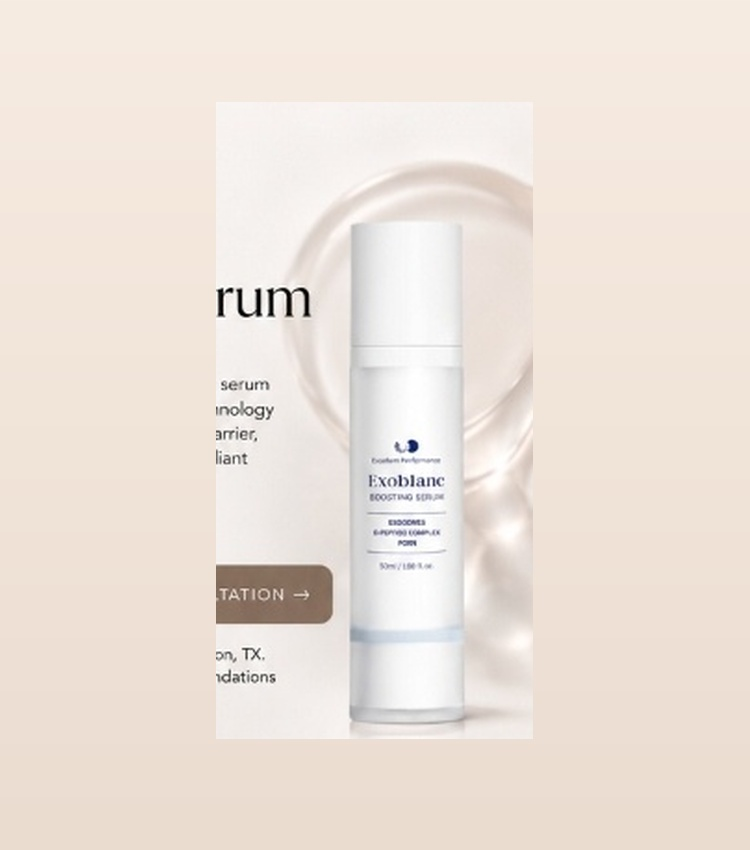
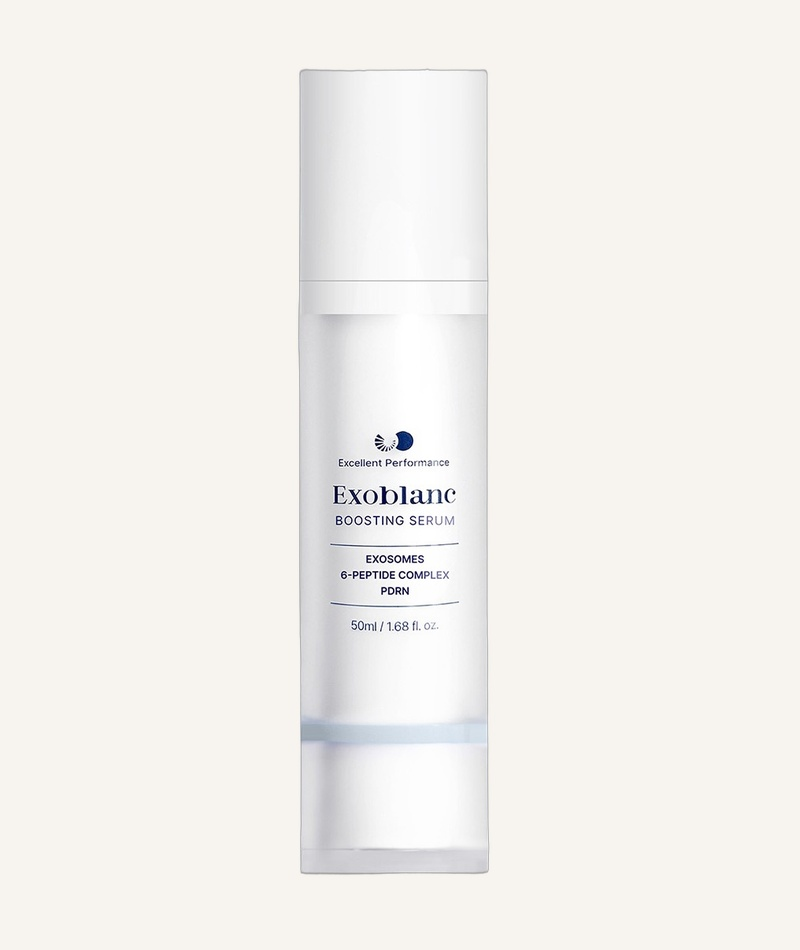
feat: replace hero image with authentic high-res Exoblanc studio product photography

diff --git a/exoblanc-mobile-app/index.html b/exoblanc-mobile-app/index.html
@@ -414,13 +414,31 @@
           <!-- Product Image Views (Centered & Prominent) -->
           <div class="relative flex-1 w-full flex items-center justify-center p-2">
             
-            <!-- View 1: Bottle Front & Center (DEFAULT) -->
+            <!-- View 1: Real Bottle Front & Center (DEFAULT) -->
             <div id="productSlide-bottle" class="product-slide absolute inset-0 flex items-center justify-center transition-opacity duration-400 opacity-100 p-4">
-              <div class="absolute w-60 h-60 rounded-full bg-white/70 blur-2xl pointer-events-none"></div>
-              <img src="assets/product-front-center.jpg" alt="Exoblanc Boosting Serum Bottle Front and Center" class="h-[92%] max-w-[85%] object-contain filter drop-shadow-2xl relative z-10" />
+              <div class="absolute w-64 h-64 rounded-full bg-white/80 blur-2xl pointer-events-none"></div>
+              <img src="assets/product-bottle-transparent.png" alt="Exoblanc Boosting Serum Official Product Bottle" class="h-[94%] max-w-[85%] object-contain filter drop-shadow-2xl relative z-10" />
             </div>
 
-            <!-- View 2: Model Glass Skin Result -->
+            <!-- View 2: Real Product on Luxury Water Ripples -->
+            <div id="productSlide-water" class="product-slide absolute inset-0 flex items-center justify-center transition-opacity duration-400 opacity-0">
+              <img src="assets/product-water-ripples.jpg" alt="Exoblanc Boosting Serum Hydration Ripples" class="w-full h-full object-cover object-center" />
+              <div class="absolute inset-0 bg-gradient-to-t from-near-black/50 via-transparent to-transparent"></div>
+              <div class="absolute bottom-6 left-5 bg-white/90 backdrop-blur-md px-3.5 py-1.5 rounded-full shadow-soft text-[10px] font-heading font-bold uppercase tracking-[0.2em] text-near-black border border-taupe/20">
+                Official Studio Editorial
+              </div>
+            </div>
+
+            <!-- View 3: Bottle & Retail Box Packaging -->
+            <div id="productSlide-box" class="product-slide absolute inset-0 flex items-center justify-center transition-opacity duration-400 opacity-0">
+              <img src="assets/product-with-box.jpg" alt="Exoblanc Boosting Serum Packaging" class="w-full h-full object-cover object-center" />
+              <div class="absolute inset-0 bg-gradient-to-t from-near-black/50 via-transparent to-transparent"></div>
+              <div class="absolute bottom-6 left-5 bg-white/90 backdrop-blur-md px-3.5 py-1.5 rounded-full shadow-soft text-[10px] font-heading font-bold uppercase tracking-[0.2em] text-near-black border border-taupe/20">
+                Bottle &amp; Retail Carton
+              </div>
+            </div>
+
+            <!-- View 4: Model Glass Skin Result -->
             <div id="productSlide-model" class="product-slide absolute inset-0 flex items-center justify-center transition-opacity duration-400 opacity-0">
               <img src="assets/model.jpg" alt="Exoblanc Skin Glow Result" class="w-full h-full object-cover object-center" />
               <div class="absolute inset-0 bg-gradient-to-t from-near-black/50 via-transparent to-transparent"></div>
@@ -429,7 +447,7 @@
               </div>
             </div>
 
-            <!-- View 3: Dewy Serum Droplet Macro -->
+            <!-- View 5: Dewy Serum Droplet Macro -->
             <div id="productSlide-texture" class="product-slide absolute inset-0 flex items-center justify-center transition-opacity duration-400 opacity-0">
               <img src="assets/texture.jpg" alt="Micro Droplet Serum Slip" class="w-full h-full object-cover object-center" />
               <div class="absolute inset-0 bg-gradient-to-t from-near-black/50 via-transparent to-transparent"></div>
@@ -438,20 +456,16 @@
               </div>
             </div>
 
-            <!-- View 4: Full Campaign Board -->
-            <div id="productSlide-board" class="product-slide absolute inset-0 flex items-center justify-center transition-opacity duration-400 opacity-0">
-              <img src="assets/hero-full.jpg" alt="Full Campaign Visual" class="w-full h-full object-cover object-center" />
-            </div>
-
           </div>
 
           <!-- Pagination Indicator Dots -->
           <div class="relative z-30 pb-5 flex flex-col items-center gap-2">
             <div class="flex items-center gap-1.5 bg-white/70 backdrop-blur-md px-3.5 py-1.5 rounded-full shadow-soft border border-white/60">
-              <button onclick="setProductSlide('bottle', this)" class="dot-btn w-2.5 h-2.5 rounded-full bg-warm-gold transition-all"></button>
-              <button onclick="setProductSlide('model', this)" class="dot-btn w-2.5 h-2.5 rounded-full bg-taupe/30 hover:bg-warm-gold transition-all"></button>
-              <button onclick="setProductSlide('texture', this)" class="dot-btn w-2.5 h-2.5 rounded-full bg-taupe/30 hover:bg-warm-gold transition-all"></button>
-              <button onclick="setProductSlide('board', this)" class="dot-btn w-2.5 h-2.5 rounded-full bg-taupe/30 hover:bg-warm-gold transition-all"></button>
+              <button onclick="setProductSlide('bottle', this)" class="dot-btn w-2.5 h-2.5 rounded-full bg-warm-gold transition-all" title="Bottle"></button>
+              <button onclick="setProductSlide('water', this)" class="dot-btn w-2.5 h-2.5 rounded-full bg-taupe/30 hover:bg-warm-gold transition-all" title="Water Ripples"></button>
+              <button onclick="setProductSlide('box', this)" class="dot-btn w-2.5 h-2.5 rounded-full bg-taupe/30 hover:bg-warm-gold transition-all" title="Packaging"></button>
+              <button onclick="setProductSlide('model', this)" class="dot-btn w-2.5 h-2.5 rounded-full bg-taupe/30 hover:bg-warm-gold transition-all" title="Results"></button>
+              <button onclick="setProductSlide('texture', this)" class="dot-btn w-2.5 h-2.5 rounded-full bg-taupe/30 hover:bg-warm-gold transition-all" title="Texture"></button>
             </div>
           </div>
 
